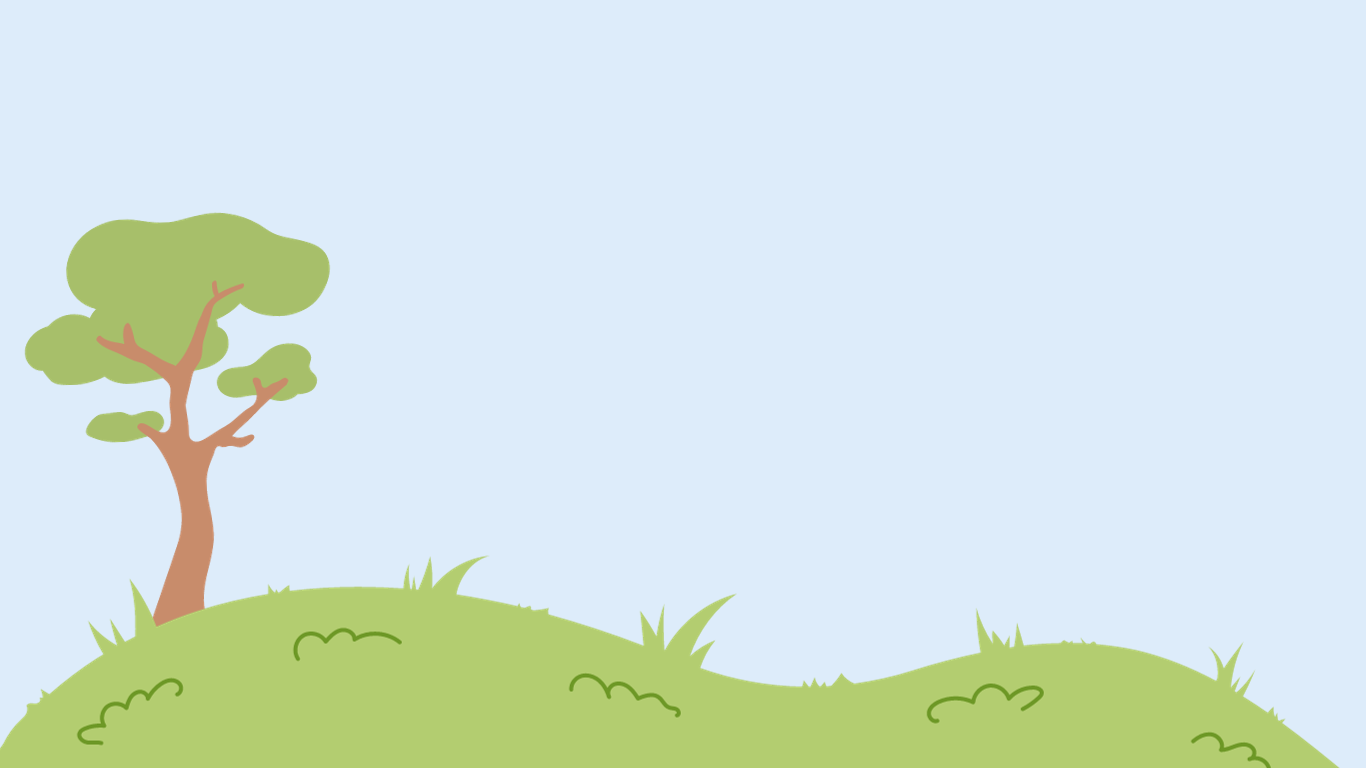
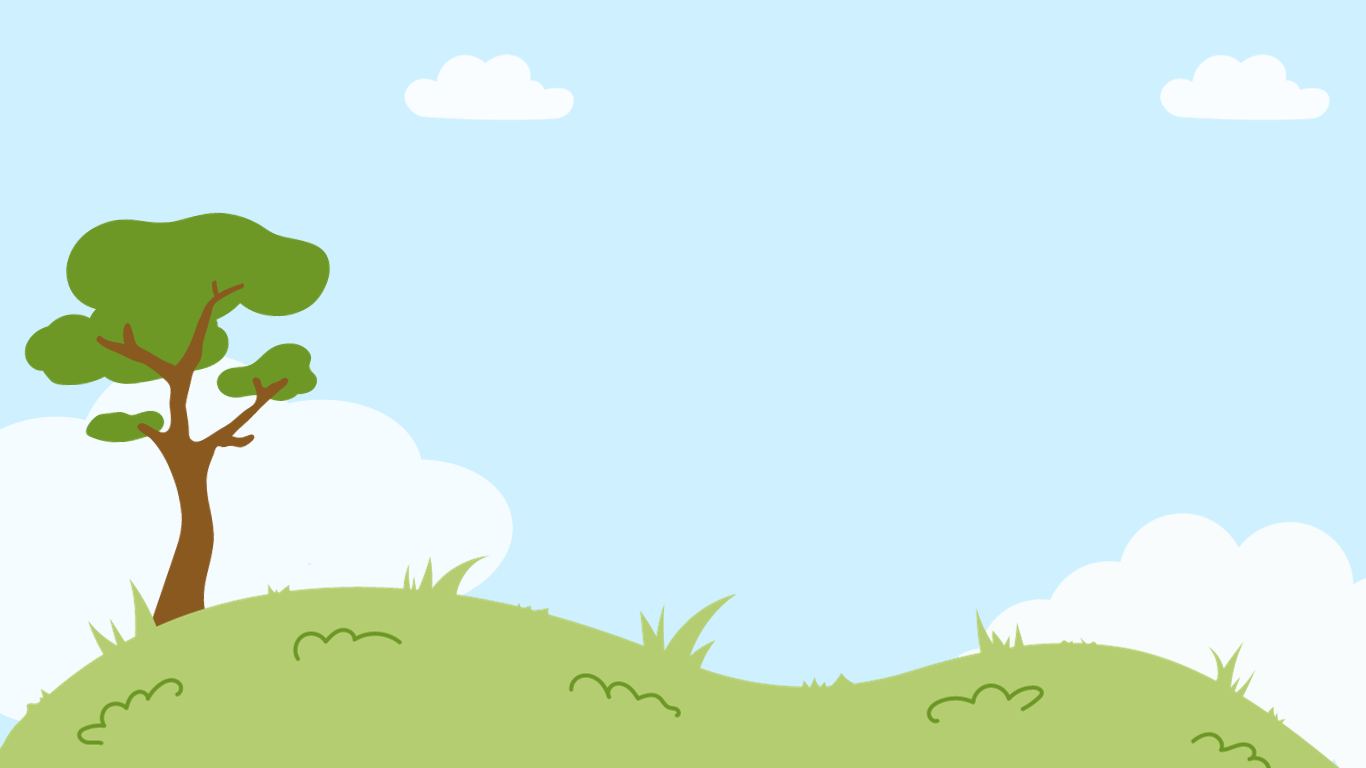
P2: Added new background images for hellow and emotion class and made the pet move

diff --git a/projects/project2/prototype/js/Hello.js b/projects/project2/prototype/js/Hello.js
@@ -1,13 +1,24 @@
 class Hello {
     constructor(petCustomization) {
         this.petCustomization = petCustomization;
+        this.backgroundImage = loadImage("assets/images/naturecloseup.png");
+        this.petX = -300; // Initial x-coordinate off-screen to the left
+        this.petY = height / 2 - 100; // Initial y-coordinate
+        this.petSpeed = 5; // The speed of the pet's entrance
     }
 
     display() {
-        // Display the chosen pet image
-        background(180, 200, 150);
+        // Display the background image
+        background(this.backgroundImage);
 
-        image(this.petCustomization.chosenPet, width / 2 - 150, height / 2 - 150, 360, 360);
+        // Update the pet's x-coordinate to make it enter from the left
+        this.petX += this.petSpeed;
+
+        // Constrain the pet's position to the specified area
+        this.petX = constrain(this.petX, -300, width / 2 - 250 );
+
+        // Display the chosen pet image
+        image(this.petCustomization.chosenPet, this.petX, this.petY, 370, 370);
 
         // Display the text above the pet's head
         textSize(24);
@@ -16,7 +27,7 @@ class Hello {
         text("Hello, I will be your emotional support pet", width / 2, height / 2 - 200);
         text("I will do my best to accompany you and help you in your journey.", width / 2, height / 2 - 160);
         textSize(20);
-        text("Press mouse to start", width / 2 + 20, height / 2 + 200);
+        text("Press mouse to start", width / 2 + 300, height / 2);
     }
 
     handleMousePress() {
